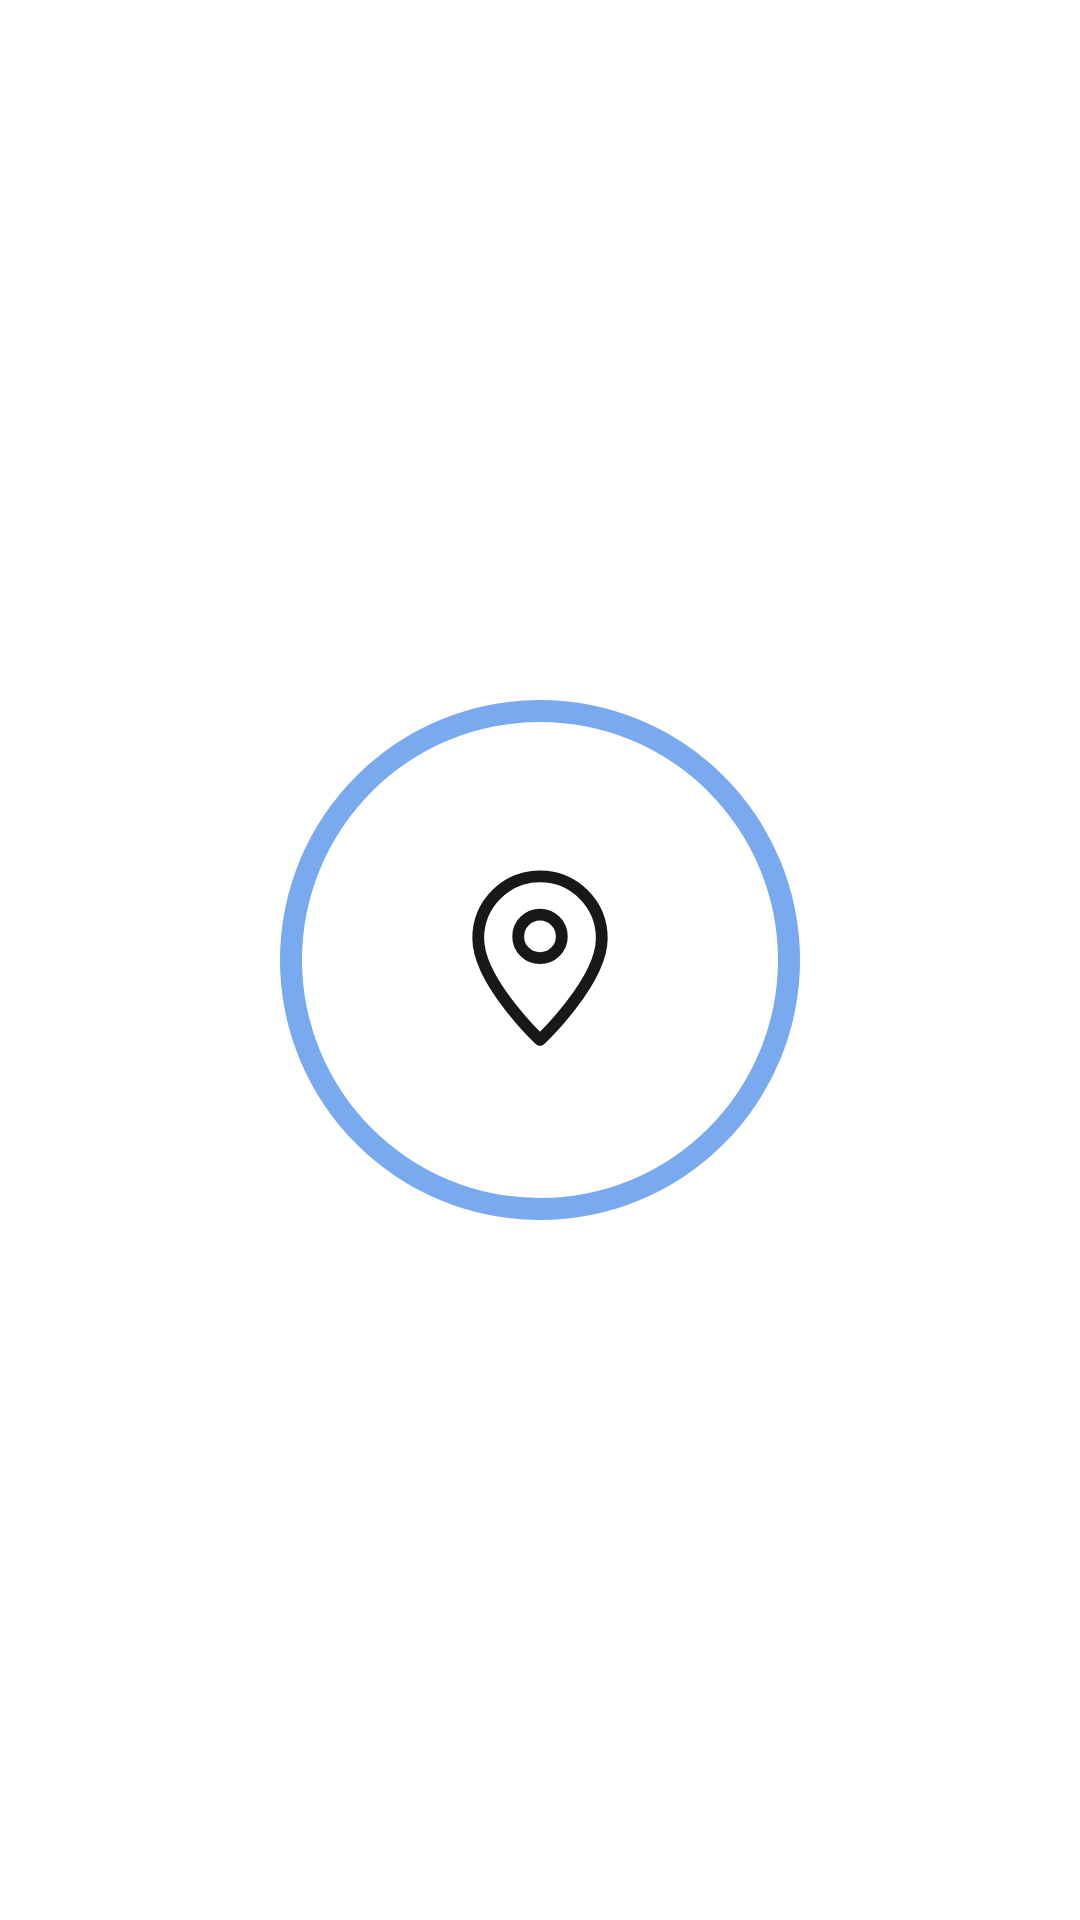
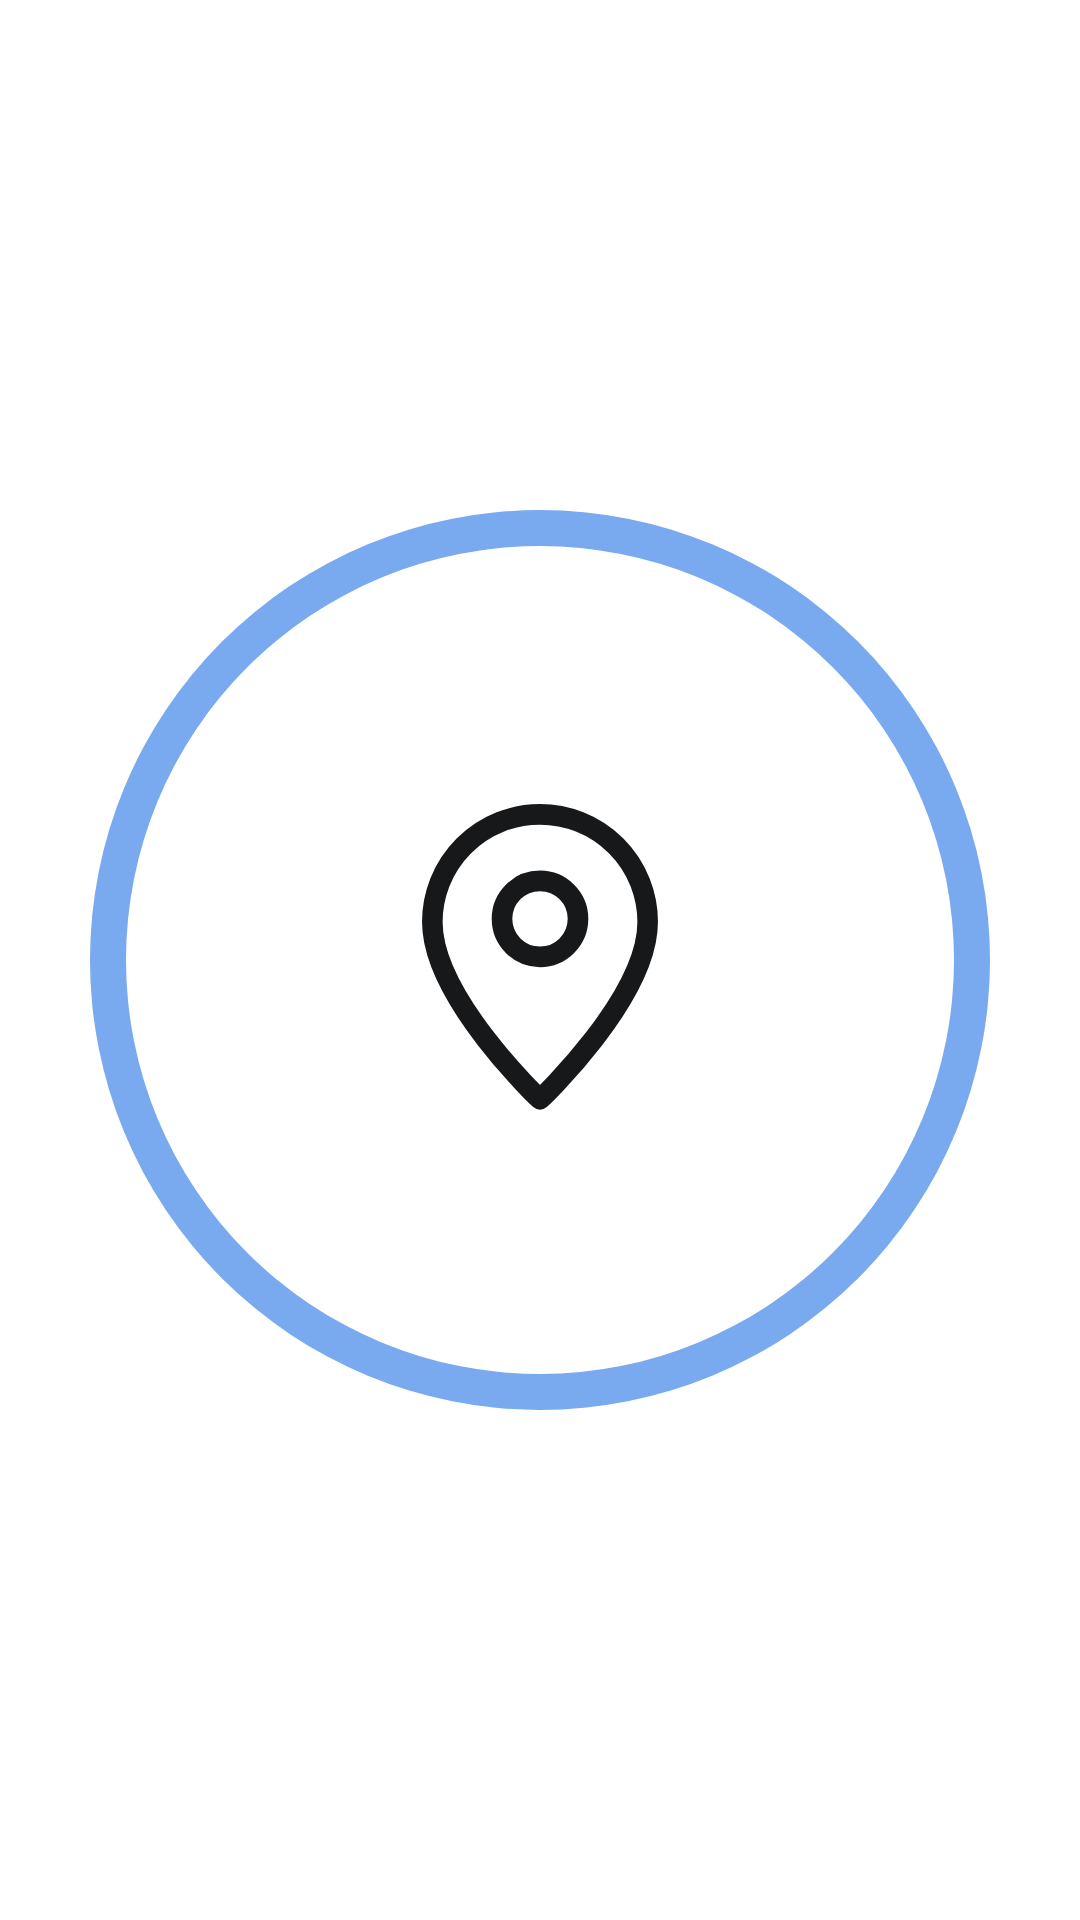
Scale the highlight covers to fill Instagram's actual crop
Checked against the live profile: Instagram crops the centre 1080x1080 and
circles it, so the visible disc is the full width of the image. The ring was
drawn at 520px on the assumption of a tighter crop, which left it floating in
white on the phone. It is now 900px, with the stroke and icon scaled to hold
the approved proportions.

Claude-Session: https://claude.ai/code/session_016b3V5EjCTmSZMCSHy3XdSF

Changed region(s): [[0.0611, 0.25, 0.9167, 0.75], [0.2444, 0.3438, 0.7028, 0.6562], [0.7028, 0.4375, 0.7639, 0.5625]]

diff --git a/design/story-highlights/covers.py b/design/story-highlights/covers.py
@@ -3,12 +3,12 @@
 
 Treatment C: white ground, black icon, Carolina blue ring.
 
-Uploaded at 1080x1920 like any story, and Instagram crops a circle out of the
-centre for the profile row. Exactly how wide that crop is has shifted over the
-years, so the ring is drawn well inside the likely crop rather than out at its
-edge. Because the ground and Instagram's profile are both white, a crop wider
-than the ring just shows more white and still reads correctly. A ring sized to
-the crop would clip the moment the crop tightened.
+Uploaded at 1080x1920 like any story. Instagram crops the centre 1080x1080 and
+circles it, so the visible disc is the full width of the image, confirmed
+against a live profile. An earlier pass sized the ring at 520px on the theory
+that the crop was tighter; on the phone that left the ring floating in a sea of
+white. The ring now fills most of the crop with a margin that reads as
+deliberate padding rather than a mistake.
 
 Proportions carry over from the approved comparison sheet: ring stroke about
 4% of the ring diameter, icon about 42% of it.
@@ -22,9 +22,9 @@ OUT = os.path.join(HERE, "out", "covers")
 TMP = ("/tmp/claude-0/-home-user-Weakends-Media-Team/"
        "e694c530-fc11-54a2-af59-d2f4859a017f/scratchpad")
 
-RING = 520      # ring diameter on the 1080 canvas
-STROKE = 22     # ring weight
-ICON = 218      # icon box inside the ring
+RING = 900      # ring diameter, against a crop that is the full 1080 wide
+STROKE = 36     # ring weight, ~4% of RING
+ICON = 380      # icon box inside the ring, ~42% of RING
 
 
 def icons(c):

diff --git a/design/story-highlights/COPY.md b/design/story-highlights/COPY.md
@@ -107,11 +107,11 @@ the rest are the row a detailer needs.
 | `faq.png` | FAQ | question mark in a circle |
 
 **How they are built.** White ground, black icon, Carolina blue ring. Each is
-1080×1920 and Instagram crops a circle out of the centre for the profile row.
-How wide that crop is has shifted over the years, so the ring is drawn at 520px,
-well inside the likely crop, rather than out at its edge. Ground and profile are
-both white, so a crop wider than the ring just shows more white and still reads
-correctly; a ring sized to the crop would clip the moment the crop tightened.
+1080×1920. Instagram crops the centre 1080×1080 and circles it, so the visible
+disc is the full width of the image — checked against the live profile. The ring
+is 900px, which fills that crop with a margin that reads as padding. An earlier
+pass used 520px on the theory that the crop was tighter, and on the phone the
+ring floated in a sea of white.
 
 Ring stroke is about 4% of the ring diameter and the icon about 42% of it, the
 proportions signed off on the treatment sheet. `covers_compare.py` renders that
